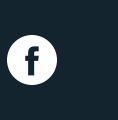
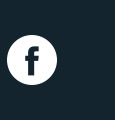
Good Solution

diff --git a/template.html b/template.html
@@ -78,7 +78,7 @@
 			margin-top:-100px;
 		}
 		.col-pullup-large {
-			margin-top:-300px;
+			margin-top:-350px;
 		}
 		.el-basic {
 			margin-top:40px;
@@ -140,7 +140,7 @@
 				margin-top: -50px !important;
 			}
 			.col-pullup-large {
-				margin-top: -50px !important;
+				margin-top: -120px !important;
 			}
 			.col-empty {
 				display: none;
@@ -211,7 +211,7 @@
 
 				<!-- FOOTER -->
 				<tr>
-					<td align="center" class="col-padding" style="padding-top:50px; font-size: 18px; color:#FFFFFF; line-height: 18px; font-family: Arial, sans-serif;">
+					<td align="center" class="col-padding" style="padding-left: 100px; padding-right: 100px; padding-top:50px; font-size: 18px; color:#FFFFFF; line-height: 18px; font-family: Arial, sans-serif;">
 						<center>
 							<div class="hl" style="font-size: 36px; text-transform:uppercase; font-weight:800; font-family: Times, serif; line-height: 38px;">Besuchen Sie uns.</div>
 							<br>
@@ -223,7 +223,7 @@
 					</td>
 				</tr>
 				<tr>
-					<td class="col-padding" align="left" style="font-family: Times, serif; font-weight: bold; text-transform: uppercase; letter-spacing: 0.1em;">
+					<td class="col-padding" align="left" style="padding-left: 100px; padding-right: 100px;">
 						<table width="100%" border="0" cellpadding="0" cellspacing="0" bgcolor=" #13242e">
 							<tr>
 								<td style="padding-top:30px;">
@@ -233,18 +233,13 @@
 										<tr><td width="50%" valign="top"><![endif]-->
 											<table width="300" border="0" cellpadding="0" cellspacing="0" align="left" class="force-row">
 												<tr>
-													<td class="col" valign="top" style="text-align:left; padding-top:20px; padding-bottom:20px; background-color: #13242e;" bgcolor="#13242e" >
-														<img style="margin: 0px;" src="http://motionpicture.24-1.com/newsletter/logo-241-footer.jpg" alt="" border="0" width="300">
-													</td>
+													<td class="col" valign="top" style="text-align:left; padding-top:20px; padding-bottom:20px; background-color: #13242e;" bgcolor="#13242e" ><img style="margin: 0px;" src="http://motionpicture.24-1.com/newsletter/logo-241-footer.jpg" alt="" border="0" width="300"></td>
 												</tr>
 											</table>
 											<!--[if mso]></td><td width="50%" valign="top"><![endif]-->
 											<table width="300" border="0" cellpadding="0" cellspacing="0" class="force-row">
 												<tr>
-													<td class="col" valign="top" style="text-align:left; padding-top:20px; padding-bottom:20px; background-color: #13242e; letter-spacing:0; font-size:0;" bgcolor="#13242e" >
-														<a href="http://motionpicture.24-1.com"><img style="margin: 0px;" src="http://motionpicture.24-1.com/newsletter/link-www.jpg" alt="" border="0" width="117"></a>
-														<a href="http://motionpicture.24-1.com"><img style="margin: 0px;" src="http://motionpicture.24-1.com/newsletter/link-instagramm.jpg" alt="" border="0" width="65"></a>
-														<a href="https://www.facebook.com/twentyfourone-motionpicture-GmbH-171212306283811/"><img style="margin: 0px;" src="http://motionpicture.24-1.com/newsletter/link-facebook.jpg" alt="" border="0" width="118"></a>
+													<td class="col" valign="top" style="text-align:left; padding:0px; padding-top:20px; padding-bottom:20px; background-color: #13242e; letter-spacing:0; font-size:0;" bgcolor="#13242e"><a href="http://motionpicture.24-1.com"><img style="margin: 0px;" src="http://motionpicture.24-1.com/newsletter/link-www.jpg" alt="" border="0" width="117"></a><a href="http://motionpicture.24-1.com"><img style="margin: 0px;" src="http://motionpicture.24-1.com/newsletter/link-instagramm.jpg" alt="" border="0" width="65"></a><a href="https://www.facebook.com/twentyfourone-motionpicture-GmbH-171212306283811/"><img style="margin: 0px;" src="http://motionpicture.24-1.com/newsletter/link-facebook.jpg" alt="" border="0" width="115"></a>
 													</td>
 												</tr>
 											</table>
@@ -265,18 +260,14 @@
 										<tr><td width="50%" valign="top"><![endif]-->
 											<table width="300" border="0" cellpadding="0" cellspacing="0" align="left" class="force-row">
 												<tr>
-													<td class="col" valign="top" style="text-align:left; padding-top:20px; padding-bottom:20px; background-color: #13242e;" bgcolor="#13242e" >
-														<img style="margin: 0px;" src="http://motionpicture.24-1.com/newsletter/logo-claudiodilucia-footer.jpg" alt="" border="0" width="300">
+													<td class="col" valign="top" style="text-align:left; padding-top:20px; padding-bottom:20px; background-color: #13242e;" bgcolor="#13242e" ><img style="margin: 0px;" src="http://motionpicture.24-1.com/newsletter/logo-claudiodilucia-footer.jpg" alt="" border="0" width="300">
 													</td>
 												</tr>
 											</table>
 											<!--[if mso]></td><td width="50%" valign="top"><![endif]-->
 											<table width="300" border="0" cellpadding="0" cellspacing="0" class="force-row">
 												<tr>
-													<td class="col" valign="top" style="text-align:left; padding-top:20px; padding-bottom:20px; background-color: #13242e; letter-spacing:0; font-size:0;" bgcolor="#13242e" >
-														<a href="http://claudiodilucia.com/"><img style="margin: 0px;" src="http://motionpicture.24-1.com/newsletter/link-www.jpg" alt="" border="0" width="117"></a>
-														<a href="https://www.instagram.com/claudiodilucia/"><img style="margin: 0px;" src="http://motionpicture.24-1.com/newsletter/link-instagramm.jpg" alt="" border="0" width="65"></a>
-														<a href="https://www.facebook.com/claudiodilucia"><img style="margin: 0px;" src="http://motionpicture.24-1.com/newsletter/link-facebook.jpg" alt="" border="0" width="118"></a>
+													<td class="col" valign="top" style="text-align:left; padding:0px; padding-top:20px; padding-bottom:20px; background-color: #13242e; letter-spacing:0; font-size:0;" bgcolor="#13242e" ><a href="http://claudiodilucia.com/"><img style="margin: 0px;" src="http://motionpicture.24-1.com/newsletter/link-www.jpg" alt="" border="0" width="117"></a><a href="https://www.instagram.com/claudiodilucia/"><img style="margin: 0px;" src="http://motionpicture.24-1.com/newsletter/link-instagramm.jpg" alt="" border="0" width="65"></a><a href="https://www.facebook.com/claudiodilucia"><img style="margin: 0px;" src="http://motionpicture.24-1.com/newsletter/link-facebook.jpg" alt="" border="0" width="115"></a>
 													</td>
 												</tr>
 											</table>
@@ -295,7 +286,7 @@
 					</td>
 				</tr>
 				<tr>
-					<td class="col-padding" align="left" style="font-size: 18px; color:#000000; line-height: 38px; font-family: Arial, sans-serif;">
+					<td class="col-padding" align="left" style="padding-left: 100px; padding-right: 100px; font-size: 18px; color:#000000; line-height: 38px; font-family: Arial, sans-serif;">
 						<table width="100%" border="0" cellpadding="0" cellspacing="0" bgcolor="#ffffff">
 							<tr>
 								<td style="text-align:center; font-size: 18px; color:#000000; line-height: 38px; font-family: Arial, sans-serif; padding-top:70px; padding-bottom:80px;">
@@ -307,7 +298,7 @@
 					</td>
 				</tr>
 				<tr>
-					<td align="center" class="col-padding" style="font-size: 12px; color:#FFFFFF; line-height: 18px; font-family: Arial, sans-serif;">
+					<td align="center" class="col-padding" style="padding-left: 100px; padding-right: 100px; font-size: 12px; color:#FFFFFF; line-height: 18px; font-family: Arial, sans-serif;">
 						<br>
 						<br>
 						<br>

diff --git a/loop-project-teaser-02.html b/loop-project-teaser-02.html
@@ -1,33 +1,35 @@
 <!-- START TEASER 02 -->
-<div class="el-basic" style="position:relative; z-index:0;">
+<div class="el-basic" style="position:relative; z-index:0; margin-top:40px;">
 	<table border="0" width="800" cellpadding="0" cellspacing="0" class="container" style="width:800px; max-width:800px; ">
 		<tr>
-			<td align="left" style="padding-left: 0px; padding-right: 0px;">
-				<div style="text-align:left">
-					<!--#image#--><img style="margin: 0px; width:80%" src="http://motionpicture.24-1.com/newsletter/teaser-03-pic.jpg" alt="" border="0" width="640"><!--#/image#-->
-				</div>
+			<td align="left" style="padding-left: 0px; padding-right: 0px; text-align:left;">
+				<!--#image#--><img style="margin: 0px; width:80%" src="http://motionpicture.24-1.com/newsletter/teaser-03-pic.jpg" alt="" border="0" width="640"><!--#/image#-->
 			</td>
 		</tr>
 	</table>
 </div>
-<div class="col-pullup-large" style="position:relative; z-index:5; padding-bottom:20px;">
+<div class="col-pullup-large" style="position:relative; z-index:5; padding-bottom:20px; padding-bottom:20px; margin-top:-350px;">
 	<table border="0" width="800" cellpadding="0" cellspacing="0" class="container" style="width:800px; max-width:800px; ">
 		<tr>
 			<td class="col-empty"></td>
-			<td class="content col-2of3" align="left" style="padding-bottom:50px; ">
-				<div class="topic col-padding" style="font-family: Times, serif; color: #ffffff; font-size: 42px; font-weight: 600; text-align: left; text-transform: uppercase;">
-					<!--#text_line #-->
-						Warum männer an sich selbst arbeiten ...
-					<!--#/text_line#-->
-				</div>
+			<td class="content col-2of3" align="left" style="padding-bottom:50px; padding-top:50px; width:60%;">
+				<table width="100%" border="0" cellpadding="0" cellspacing="0">
+					<tr>
+						<td class="topic col-padding" style="padding-left: 100px; padding-right: 100px; font-family: Times, serif; color: #ffffff; font-size: 42px; font-weight: 600; text-align: left; text-transform: uppercase;">
+							<!--#text_line #-->
+								Warum männer an sich selbst arbeiten ...
+							<!--#/text_line#-->
+						</td>
+					</tr>
+				</table>
 			</td>
 		</tr>
 		<tr>
-			<td class="content col-1of3" align="left" style="padding-top: 6px; padding-bottom: 6px;">
-				<table width="100%" border="0" cellpadding="0" cellspacing="0">
+			<td class="content col-1of3" align="left" style="width:40%;">
+				<table width="100%" border="0" cellpadding="0" cellspacing="0" style="margin-top: 6px; margin-bottom: 6px;">
 					<tr>
 						<td class="col-1" valign="top" style="width: 10%;">&nbsp;</td>
-						<td class="col-button" valign="top" style="background-color: transparent; border:3px solid white; padding-left: 10px; padding-right:10px; padding-top:15px; padding-bottom: 15px;">
+						<td class="col-button" valign="top" style="font-family: Times, serif; color:#ffffff; font-weight: 800; background-color: transparent; border:3px solid white; padding-left: 10px; padding-right:10px; padding-top:15px; padding-bottom: 15px;">
 							<center>
 							<!--#link #-->
 								<a href="" style="font-family: Times, serif; color:#ffffff; text-decoration: none; font-weight: 800; text-transform: uppercase; letter-spacing:1px;">Zum Projekt</a>
@@ -38,14 +40,18 @@
 					</tr>
 				</table>
 			</td>
-			<td class="content col-2of3" align="left" bgcolor="#13242e" style="background-color:#13242e; padding-bottom:50px; padding-top:50px;">
-				<div class="body-text col-padding" style="background-color:#13242e; font-family: Helvetica, Arial, sans-serif; font-size: 14px; line-height: 24px; text-align: left; color: #ffffff;">
-					<!--#html #-->
-						<p>
-							... entstehen traumhafte Bilder. Claudio Di Lucia hat seiner Phantasie bei einem Shooting in LA freien Lauf gelassen.
-						</p>
-					<!--#/html#-->
-				</div>
+			<td class="content col-2of3" align="left" bgcolor="#13242e" style="background-color:#13242e; padding-bottom:50px; padding-top:50px; width:60%;">
+				<table width="100%" border="0" cellpadding="0" cellspacing="0">
+					<tr>
+						<td class="body-text col-padding" style="padding-left: 100px; padding-right: 100px; background-color:#13242e; font-family: Helvetica, Arial, sans-serif; font-size: 14px; line-height: 24px; text-align: left; color: #ffffff;">
+							<!--#html #-->
+								<p>
+									... entstehen traumhafte Bilder. Claudio Di Lucia hat seiner Phantasie bei einem Shooting in LA freien Lauf gelassen.
+								</p>
+							<!--#/html#-->
+						</td>
+					</tr>
+				</table>
 			</td>
 		</tr>
 	</table>

diff --git a/loop-project-teaser-02-reverse.html b/loop-project-teaser-02-reverse.html
@@ -1,43 +1,48 @@
 <!-- START TEASER 02 RE -->
-<div class="el-basic" style="position:relative; z-index:0;">
+<div class="el-basic" style="position:relative; z-index:0; margin-top:40px;">
 	<table border="0" width="800" cellpadding="0" cellspacing="0" class="container" style="width:800px; max-width:800px; ">
 		<tr>
-			<td align="left" style="padding-left: 0px; padding-right: 0px;">
-				<div style="text-align:right">
-					<!--#image#--><img style="margin: 0px; width:80%" src="http://motionpicture.24-1.com/newsletter/teaser-02-pic.jpg" alt="" border="0" width="640"><!--#/image#-->
-				</div>
+			<td align="left" style="padding-left: 0px; padding-right: 0px; text-align:right">
+				<!--#image#--><img style="margin: 0px; width:80%" src="http://motionpicture.24-1.com/newsletter/teaser-02-pic.jpg" alt="" border="0" width="640"><!--#/image#-->
 			</td>
 		</tr>
 	</table>
 </div>
-<div class="col-pullup-large" style="position:relative; z-index:5; padding-bottom:20px;">
+<div class="col-pullup-large" style="position:relative; z-index:5; padding-bottom:20px; margin-top:-350px;">
 	<table border="0" width="800" cellpadding="0" cellspacing="0" class="container" style="width:800px; max-width:800px; ">
 		<tr>
-
-			<td class="content col-2of3" align="left" style="padding-bottom:50px;">
-				<div class="col-padding" style="font-family: Times, serif; color: #ffffff; font-size: 42px; font-weight: 600; text-align: left; text-transform: uppercase;">
-					<!--#text_line #-->
-						Ganz schön sexy ...
-					<!--#/text_line#-->
-				</div>
+			<td class="content col-2of3" align="left" style="padding-bottom:50px; padding-top:50px; width:60%;">
+				<table width="100%" border="0" cellpadding="0" cellspacing="0">
+					<tr>
+						<td class="col-padding" style="padding-left: 100px; padding-right: 100px; font-family: Times, serif; color: #ffffff; font-size: 42px; font-weight: 600; text-align: left; text-transform: uppercase;">
+							<!--#text_line #-->
+								Ganz schön sexy ...
+							<!--#/text_line#-->
+						</td>
+					</tr>
+				</table>
 			</td>
 			<td></td>
 		</tr>
 		<tr>
-			<td class="content col-2of3" align="left" bgcolor="#13242e;" style="background-color:#13242e; padding-bottom:50px; padding-top:50px;">
-				<div class="col-padding" style="background-color:#13242e; font-family: Helvetica, Arial, sans-serif; font-size: 14px; line-height: 24px; text-align: left; color: #ffffff;">
-					<!--#html #-->
-						<p>
-							... der Film, den wir mit den neuen Sigma Cinelenses gedreht haben. Sehen Sie hier, wie verführerisch die Markteinführung neuer Objektive sein kann
-						</p>
-					<!--#/html#-->
-				</div>
-			</td>
-			<td class="content col-1of3" align="left" style="padding-top: 6px; padding-bottom: 6px;">
+			<td class="content col-2of3" align="left" bgcolor="#13242e;" style="background-color:#13242e; padding-bottom:50px; padding-top:50px; with:60%;">
 				<table width="100%" border="0" cellpadding="0" cellspacing="0">
 					<tr>
+						<td class="col-padding" style="padding-left: 100px; padding-right: 100px; background-color:#13242e; font-family: Helvetica, Arial, sans-serif; font-size: 14px; line-height: 24px; text-align: left; color: #ffffff;">
+							<!--#html #-->
+								<p>
+									... der Film, den wir mit den neuen Sigma Cinelenses gedreht haben. Sehen Sie hier, wie verführerisch die Markteinführung neuer Objektive sein kann
+								</p>
+							<!--#/html#-->
+						</td>
+					</tr>
+				</table>
+			</td>
+			<td class="content col-1of3" align="left" style="width:40%;">
+				<table width="100%" border="0" cellpadding="0" cellspacing="0" style="margin-top: 6px; margin-bottom: 6px;">
+					<tr>
 						<td class="col-1" valign="top" style="width: 10%;">&nbsp;</td>
-						<td class="col-button" valign="top" style="background-color: transparent; border:3px solid white; padding-left: 10px; padding-right:10px; padding-top:15px; padding-bottom: 15px;">
+						<td class="col-button" valign="top" style="font-family: Times, serif; color:#ffffff; font-weight: 800; background-color: transparent; border:3px solid white; padding-left: 10px; padding-right:10px; padding-top:15px; padding-bottom: 15px;">
 							<center>
 							<!--#link #-->
 								<a href="" style="font-family: Times, serif; color:#ffffff; text-decoration: none; font-weight: 800; text-transform: uppercase; letter-spacing:1px;">Zum Projekt</a>

diff --git a/loop-project-teaser-01-reverse.html b/loop-project-teaser-01-reverse.html
@@ -2,7 +2,7 @@
 <div class="el-basic" style="position:relative; z-index:0; margin-top:40px;">
 	<table border="0" width="800" cellpadding="0" cellspacing="0" class="container" style="width:800px; max-width:800px; ">
 		<tr>
-			<td align="left" style="padding-left: 0px; padding-right: 0px;">
+			<td align="left" style="padding-left: 0px; padding-right: 0px; line-height:0px">
 				<center>
 					<!--#image#--><img style="margin: 0px; width:100%" src="http://motionpicture.24-1.com/newsletter/teaser-05-pic.jpg" alt="" border="0" width="800"><!--#/image#-->
 				</center>
@@ -13,10 +13,10 @@
 <div class="col-pullup-small" style="position:relative; z-index:5; padding-bottom:20px; margin-top:-100px;">
 	<table border="0" width="800" cellpadding="0" cellspacing="0" class="container" style="width:800px; max-width:800px; ">
 		<tr>
-			<td class="content col-2of3" align="left" bgcolor="#ffffff" style="background: #ffffff; ">
+			<td class="content col-2of3" align="left" bgcolor="#ffffff" style="background: #ffffff; width: 60%;">
 				<table width="100%" border="0" cellpadding="0" cellspacing="0">
 					<tr>
-						<td class="col-padding" style="background-color: #ffffff; padding-top:50px; padding-bottom: 50px;">
+						<td class="col-padding" style="background-color: #ffffff; padding-left: 100px; padding-right: 100px; padding-top: 50px; padding-bottom: 50px;">
 							<div class="topic" style="font-family: Times, serif; background-color: #ffffff;  color: #000000; font-size: 42px; font-weight: 600; text-align: left; text-transform: uppercase;">
 								<!--#text_line #-->
 									Das Rezept für ein glückliches Leben ...
@@ -33,11 +33,11 @@
 					</tr>
 				</table>
 			</td>
-			<td class="content col-1of3" align="left" style="padding-top: 6px; padding-bottom: 6px;">
-				<table width="100%" border="0" cellpadding="0" cellspacing="0">
+			<td class="content col-1of3" align="left" style="width: 40%;">
+				<table width="100%" border="0" cellpadding="0" cellspacing="0" style="padding-top: 6px; padding-bottom: 6px;">
 					<tr>
 						<td class="col-1" valign="top" style="width: 10%;">&nbsp;</td>
-						<td class="col-button" valign="top" style="background-color: transparent; border:3px solid white; padding-left: 10px; padding-right:10px; padding-top:15px; padding-bottom: 15px;">
+						<td class="col-button" valign="top" style="font-family: Times, serif; color:#ffffff; font-weight: 800; background-color: transparent; border:3px solid white; padding-left: 10px; padding-right:10px; padding-top:15px; padding-bottom: 15px;">
 							<center>
 							<!--#link #-->
 								<a href="" style="font-family: Times, serif; color:#ffffff; text-decoration: none; font-weight: 800; text-transform: uppercase; letter-spacing:1px;">Zum Projekt</a>

diff --git a/loop-textbox.html b/loop-textbox.html
@@ -1,29 +1,30 @@
 <!-- START TEXTBOX -->
-<div class="el-basic" style="position:relative; z-index:0; margin-bottom:50px;">
-	<table border="0" width="800" cellpadding="0" cellspacing="0" class="container" style="width:800px; max-width:800px; ">
-		<tr>
-			<td class="col-padding" style="">
-				<div class="col-padding" style="border: 5px solid white; padding-top: 50px; padding-bottom:50px; ">
-					<div style="font-size: 42px; color:#ffffff; text-transform:uppercase; font-weight:800; font-family: Times, serif; line-height: 46px;">
-						<center>
-							<!--#text_line #-->
-								Neue, spannende Projekte
-							<!--#/text_line#-->
-						</center>
-					</div>
-					<div style="color:#ffffff; font-family: Helvetica, Arial, sans-serif; font-size:18px; line-height:26px;">
-						<center>
-							<br/>
-							<br/>
-							<!--#text_line #-->
-								der twentyfourone // motionpicture GmbH und Arbeiten des Fotografen und Regisseurs Claudio Di Lucia.
-							<!--#/text_line#-->
-						</center>
-					</div>
-
-				</div>
-			</td>
-		</tr>
-	</table>
-</div>
+<table border="0" width="800" cellpadding="0" cellspacing="0" class="container el-basic" style="width:800px; max-width:800px; margin-top:50px; margin-bottom:50px;">
+	<tr>
+		<td class="col-padding" style="padding-left: 100px; padding-right: 100px;">
+			<table width="100%" border="0" cellpadding="0" cellspacing="0">
+				<tr>
+					<td class="col-padding" style="padding-left: 100px; padding-right: 100px;border: 5px solid white; padding-top: 50px; padding-bottom:50px;">
+						<div style="font-size: 42px; color:#ffffff; text-transform:uppercase; font-weight:800; font-family: Times, serif; line-height: 46px;">
+							<center>
+								<!--#text_line #-->
+									Neue, spannende Projekte
+								<!--#/text_line#-->
+							</center>
+						</div>
+						<div style="color:#ffffff; font-family: Helvetica, Arial, sans-serif; font-size:18px; line-height:26px;">
+							<center>
+								<br/>
+								<br/>
+								<!--#text_line #-->
+									der twentyfourone // motionpicture GmbH und Arbeiten des Fotografen und Regisseurs Claudio Di Lucia.
+								<!--#/text_line#-->
+							</center>
+						</div>
+					</td>
+				</tr>
+			</table>
+		</td>
+	</tr>
+</table>
 <!-- END TEXTBOX -->

diff --git a/loop-project-teaser-01.html b/loop-project-teaser-01.html
@@ -13,11 +13,11 @@
 <div class="col-pullup-small" style="position:relative; z-index:5; padding-bottom:20px; margin-top:-100px;">
 	<table border="0" width="800" cellpadding="0" cellspacing="0" class="container" style="width:800px; max-width:800px; ">
 		<tr>
-			<td class="content col-1of3" align="left" style="padding-top: 6px; padding-bottom: 6px;">
-				<table width="100%" border="0" cellpadding="0" cellspacing="0">
+			<td class="content col-1of3" align="left" style="width: 40%;">
+				<table width="100%" border="0" cellpadding="0" cellspacing="0" style="padding-top: 6px; padding-bottom: 6px;">
 					<tr>
 						<td class="col-1" valign="top" style="width: 10%;">&nbsp;</td>
-						<td class="col-button" valign="top" style="background-color: transparent; border: 3px solid white; padding-left: 10px; padding-right:10px; padding-top:15px; padding-bottom: 15px; text-align:center;">
+						<td class="col-button" valign="top" style="font-family: Times, serif; color:#ffffff; font-weight: 800; background-color: transparent; border: 3px solid white; padding-left: 10px; padding-right:10px; padding-top:15px; padding-bottom: 15px; text-align:center;">
 							<center>
 							<!--#link #-->
 								<a href="" style="font-family: Times, serif; color:#ffffff; text-decoration: none; font-weight: 800; text-transform: uppercase; letter-spacing:1px;">Zum Projekt</a>
@@ -28,8 +28,8 @@
 					</tr>
 				</table>
 			</td>
-			<td class="col-2of3" align="left">
-				<table>
+			<td class="col-2of3" align="left" style="width: 60%;">
+				<table width="100%" border="0" cellpadding="0" cellspacing="0">
 					<tr>
 						<td class="col-padding" style="background-color: #ffffff; padding-left: 100px; padding-right: 100px; padding-top: 50px; padding-bottom: 50px;">
 							<div class="topic" style="font-family: Times, serif; color: #000000; font-size: 42px; font-weight: 600; text-align: left; text-transform: uppercase;">
